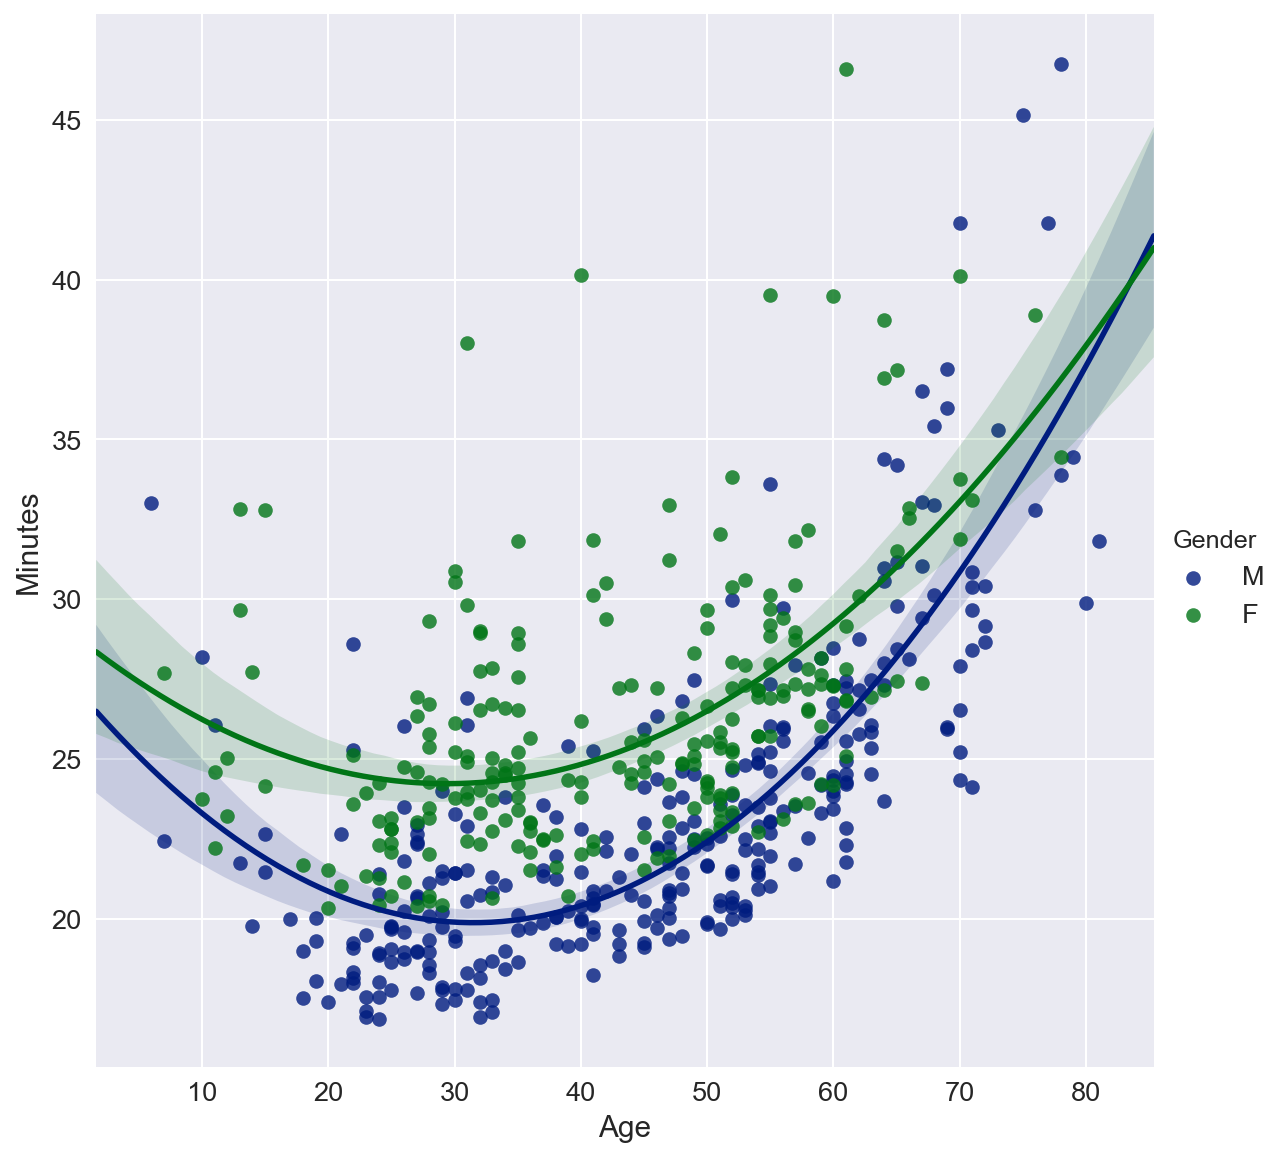
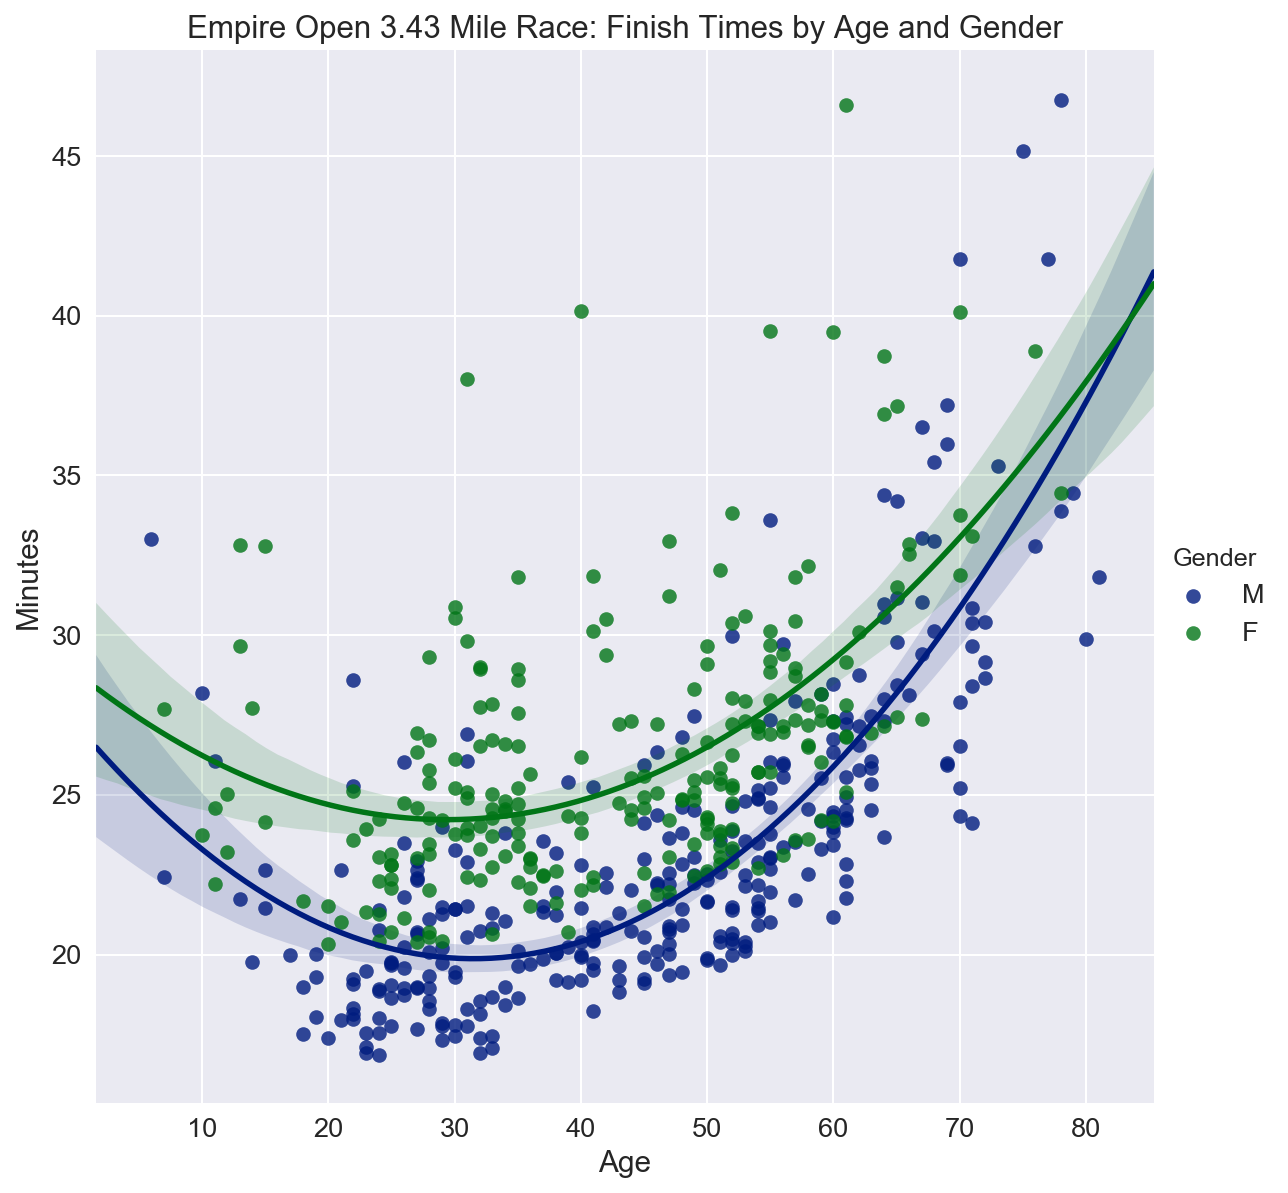
fixed intro image title

diff --git a/_posts/2017-3-26-Analyzing_Race_Results_Part_2.md b/_posts/2017-3-26-Analyzing_Race_Results_Part_2.md
@@ -203,12 +203,12 @@ The ```lmplot``` method also fits a linear regression model and plots the line a
 
 ```python
 g=sns.lmplot('Age', 'Minutes', data=df, hue='Gender', order=2, palette='dark', col='Year')
-t=plt.suptitle('Empire Open 5K: Results by Age and Gender', size=15)
+t=plt.suptitle('Empire Open 3.43 Mile Race: Finish Times by Age and Gender', size=15)
 g.fig.subplots_adjust(top=.85)
 ```
 
 
-![cc]({{ site.baseurl }}/images/Analyzing_Race_Results_Part_2_15_2.png)
+![cc]({{ site.baseurl }}/images/Analyzing_Race_Results_Part_2_15_0.png)
 
 
 While ```seaborn``` will fit and plot a regression line, you can't actually obtain the results of that regression. For this I use ```statsmodels```, a statistics module that has a formula framework similar to ```R``` and also interfaces really nicely with ```Pandas```. 
